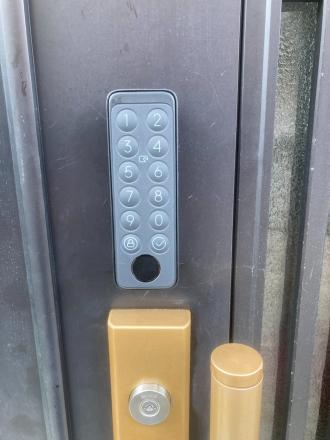
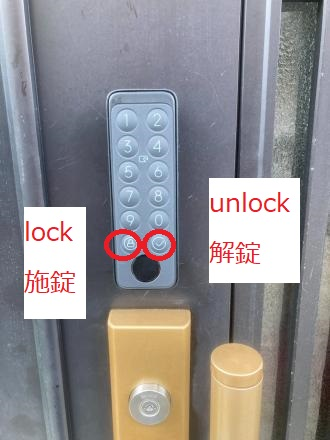
access update

Changed region(s): [[0.6364, 0.3841, 0.9091, 0.65], [0.0606, 0.4727, 0.2727, 0.7386], [0.303, 0.5023, 0.5455, 0.6205]]

diff --git a/ja/access.html b/ja/access.html
@@ -383,7 +383,17 @@
                                 暗証番号でドアを開く</span>
                         </h3>
                         <p>暗証番号は当日に通知されます。</p>
+                        <h4 ><span class="text-strong title-yellowline">解錠方法:</span></h4>
+                        <p> キーパッドに暗証番号を入力し、右下の"unlock"ボタンを押してください。<br>
+                            <span class="border-botline pb-1">ドア解錠の音が消えるまで、ドアを触らないでお待ちください。</span><br> ドアを開いて入室してください。
+                        </p>
 
+                        <p>ご注意ください: <br>
+                            (1). 暗証番号を確認してから慎重に入力してください。<br>
+                            暗証番号を3回間違えると、入力が無効になり、ドアを開けることができなくなります。<br>
+                            (2). 必ず開錠または施錠の音が止まってからドアを引いてください。
+                        </p>
+                        
                         <div class="col-md-6">
                             <img class="img-fluid pb-1" src="../assets/img/access/dooropen.jpg" alt>
     
@@ -392,8 +402,10 @@
                             <img class="img-fluid pb-1" src="../assets/img/access/dooropen2.jpg" alt>
     
                         </div>
-                       
-                   
+                        <h4 ><span class="text-strong title-yellowline">施錠方法:</span></h4>
+                        <p> キーパッドの左下の"lock"ボタンを押してください。<br>
+                            <span class="border-botline pb-1">ドア解錠の音が消えるまで、ドアを触らないでお待ちください。</span><br> ドアを閉めていることを確かめてください。
+                        </p>
 
                     
                     

diff --git a/en/access.html b/en/access.html
@@ -400,7 +400,18 @@
                        
                     
                         <p>The PIN code will be notified on the check-in day.</p>
-
+                        
+                        <h4><span class="text-strong title-yellowline">Unlocking Method:</span></h4>
+                        <p>Enter the PIN code on the keypad and press the "unlock" button at the bottom right.<br>
+                            <span class="border-botline pb-1">Please wait without touching the door until the unlocking sound stops.</span><br> Open the door and enter the house.
+                        </p>
+                        
+                        <p>Please note: <br>
+                            (1). Please double-check the PIN code and enter it carefully to avoid errors.<br>
+                            After three incorrect attempts, the PIN input will be disabled, and you won't be able to open the door.<br>
+                            (2). Be sure to wait until the unlocking or locking sound stops before pulling the door.
+                        </p>
+                        
                         <div class="col-md-6">
                             <img class="img-fluid pb-1" src="../assets/img/access/dooropen.jpg" alt>
     
@@ -409,6 +420,11 @@
                             <img class="img-fluid pb-1" src="../assets/img/access/dooropen2.jpg" alt>
     
                         </div>
+                        <h4><span class="text-strong title-yellowline">Locking Method:</span></h4>
+                        <p>Press the "lock" button at the bottom left of the keypad.<br>
+                            <span class="border-botline pb-1">Please wait without touching the door until the locking sound stops.</span><br> Make sure the door is closed.
+                        </p>
+
                 </div>
 
 

diff --git a/zh/access.html b/zh/access.html
@@ -388,7 +388,15 @@
                             </span>
                         </h3>
                         <p>密码会在入住当天得到通知。</p>
-
+                        <h4><span class="text-strong title-yellowline">开锁方法:</span></h4>
+                        <p>请在按钮盘上输入密码，然后按右下角的“unlock”按钮。<br>
+                            <span class="border-botline pb-1">请等待开锁声音停止后再触门。</span><br> 打开门并进入房间。
+                        </p>
+                        <p>请注意: <br>
+                        (1).请确认好密码后，再仔细输入，以免发生密码错误。<br>
+                        密码错误3次后，密码输入将会无效，无法开门。<br>
+                        (2).请一定要等待开锁或锁门的声音停止后，再去拉门。
+                        </p>
                         <div class="col-md-6">
                             <img class="img-fluid pb-1" src="../assets/img/access/dooropen.jpg" alt>
     
@@ -398,7 +406,11 @@
     
                         </div>
 
-                   
+                        <h4><span class="text-strong title-yellowline">上锁方法:</span></h4>
+                        <p>请按下键盘左下角的“lock”按钮。<br>
+                            <span class="border-botline pb-1">请等待锁门声音停止后再触门。</span><br> 请确认门已经关好。
+                        </p>
+                        
 
                     
                 </div>
